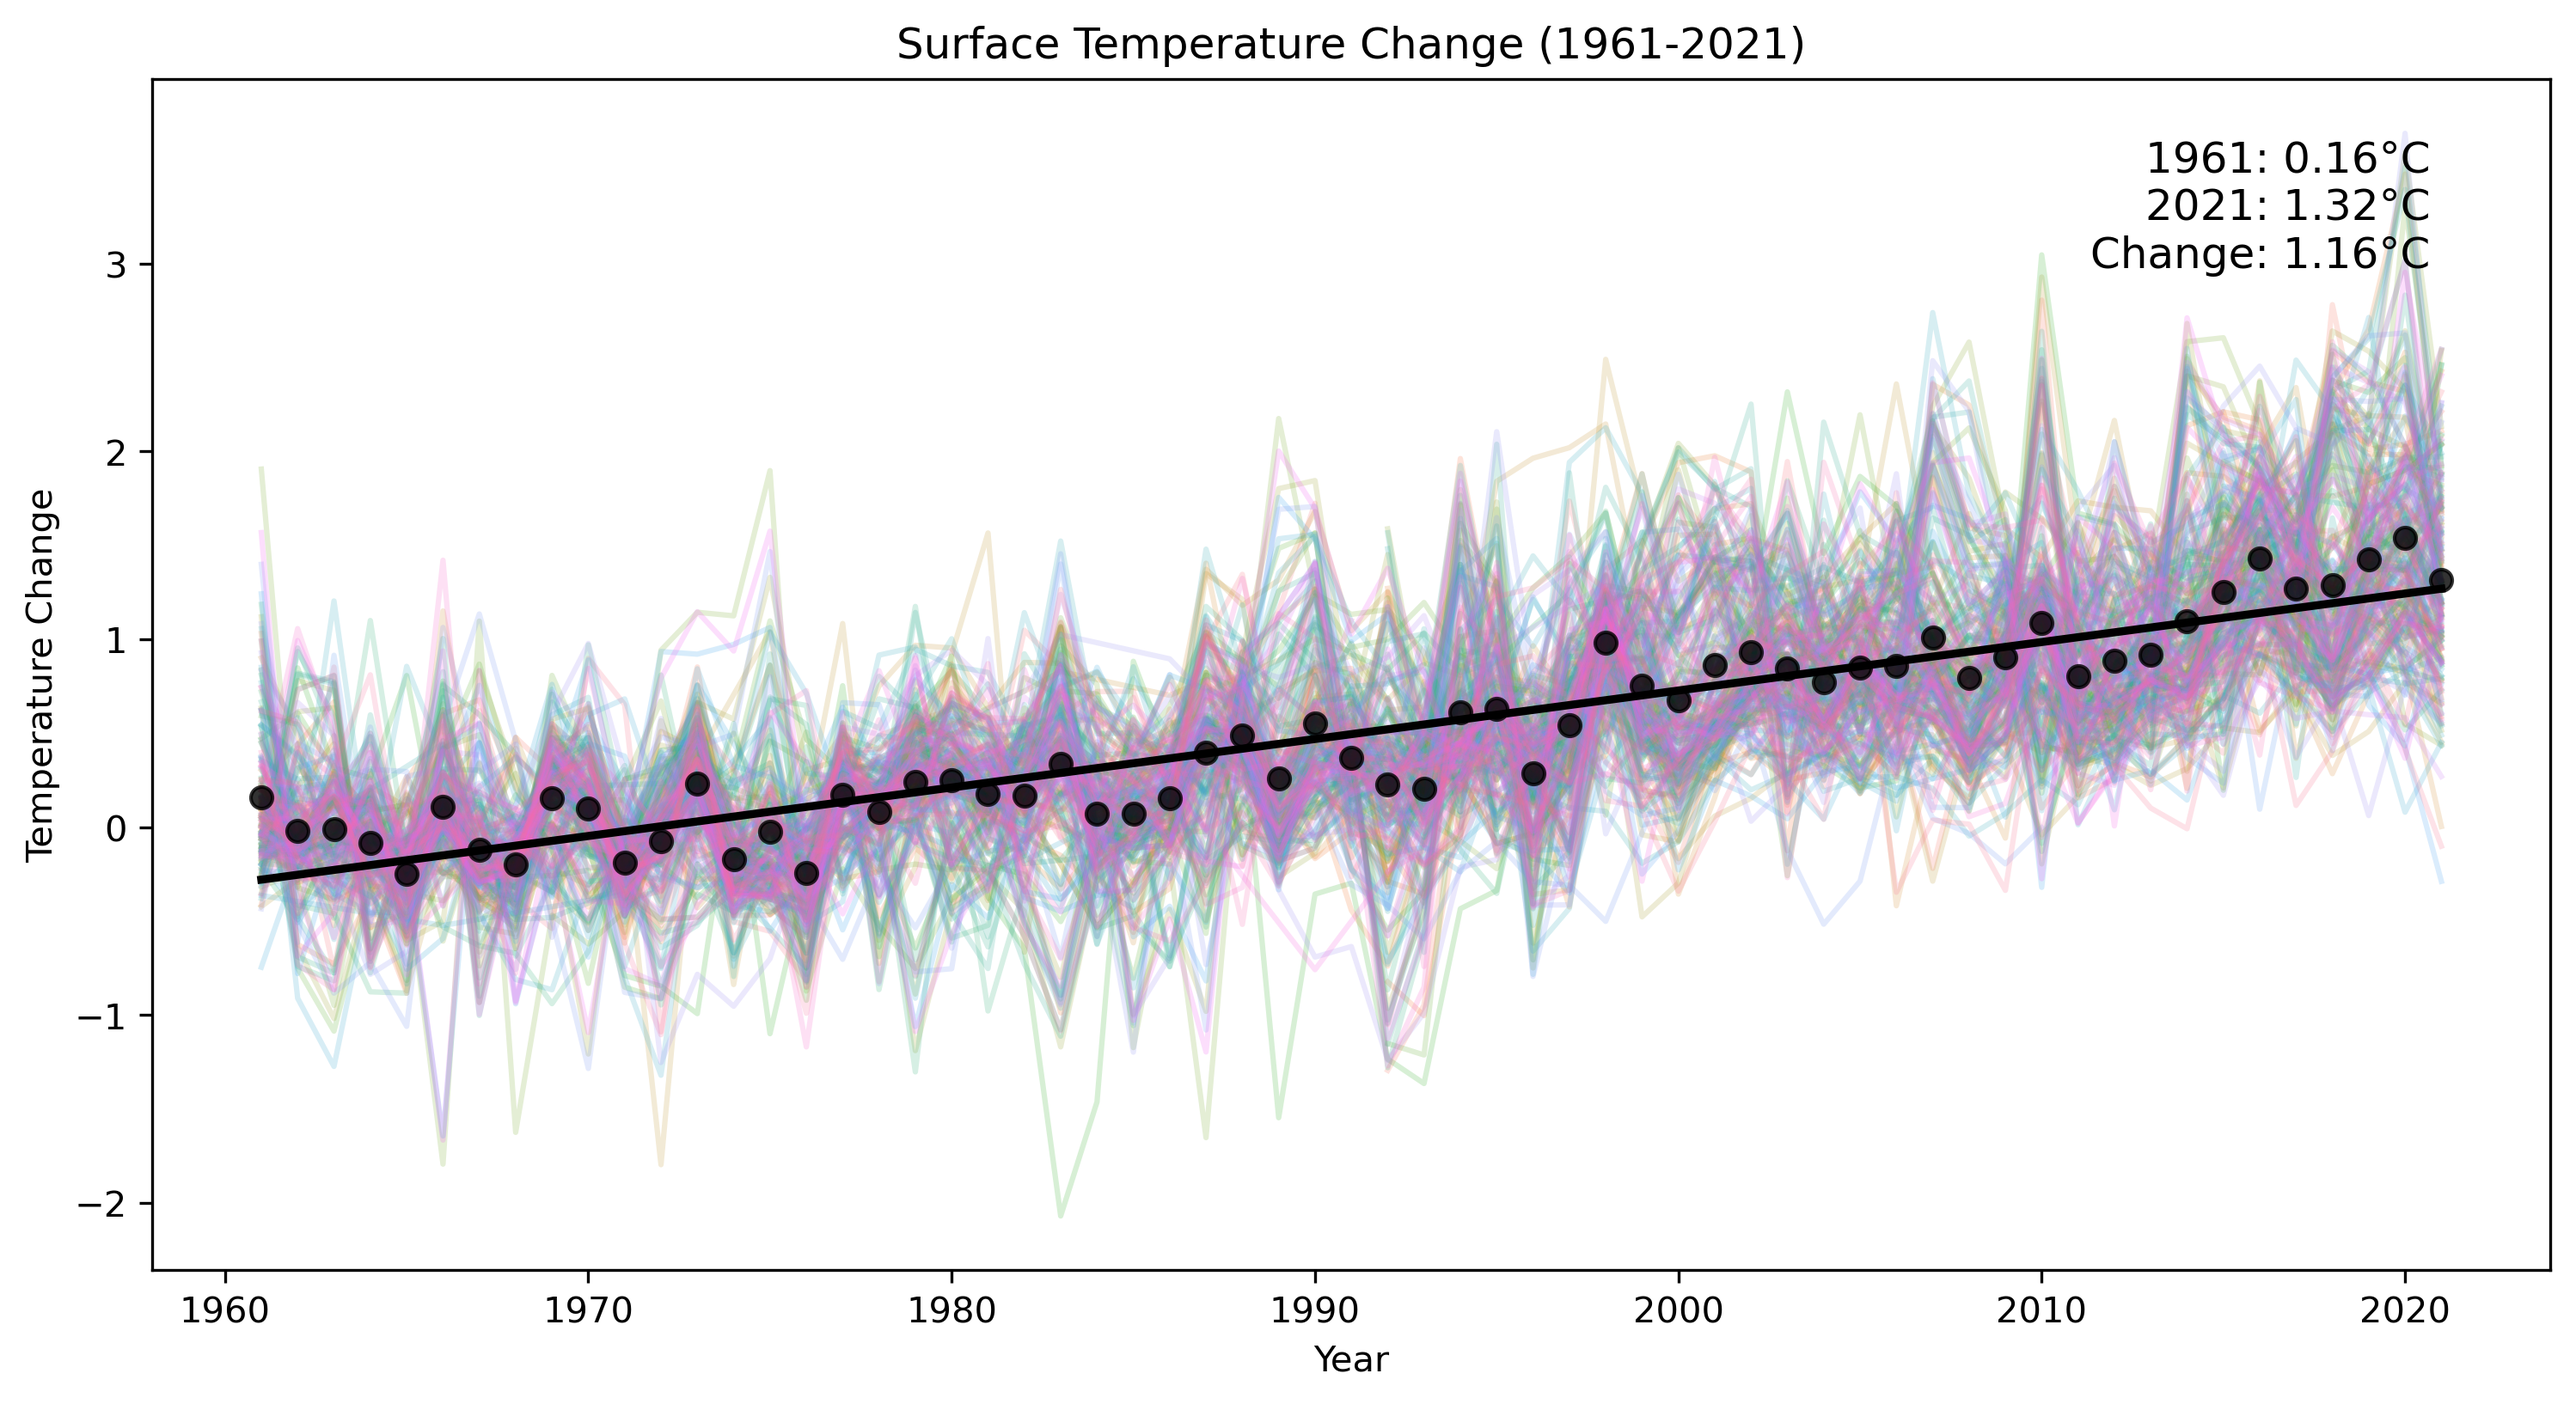
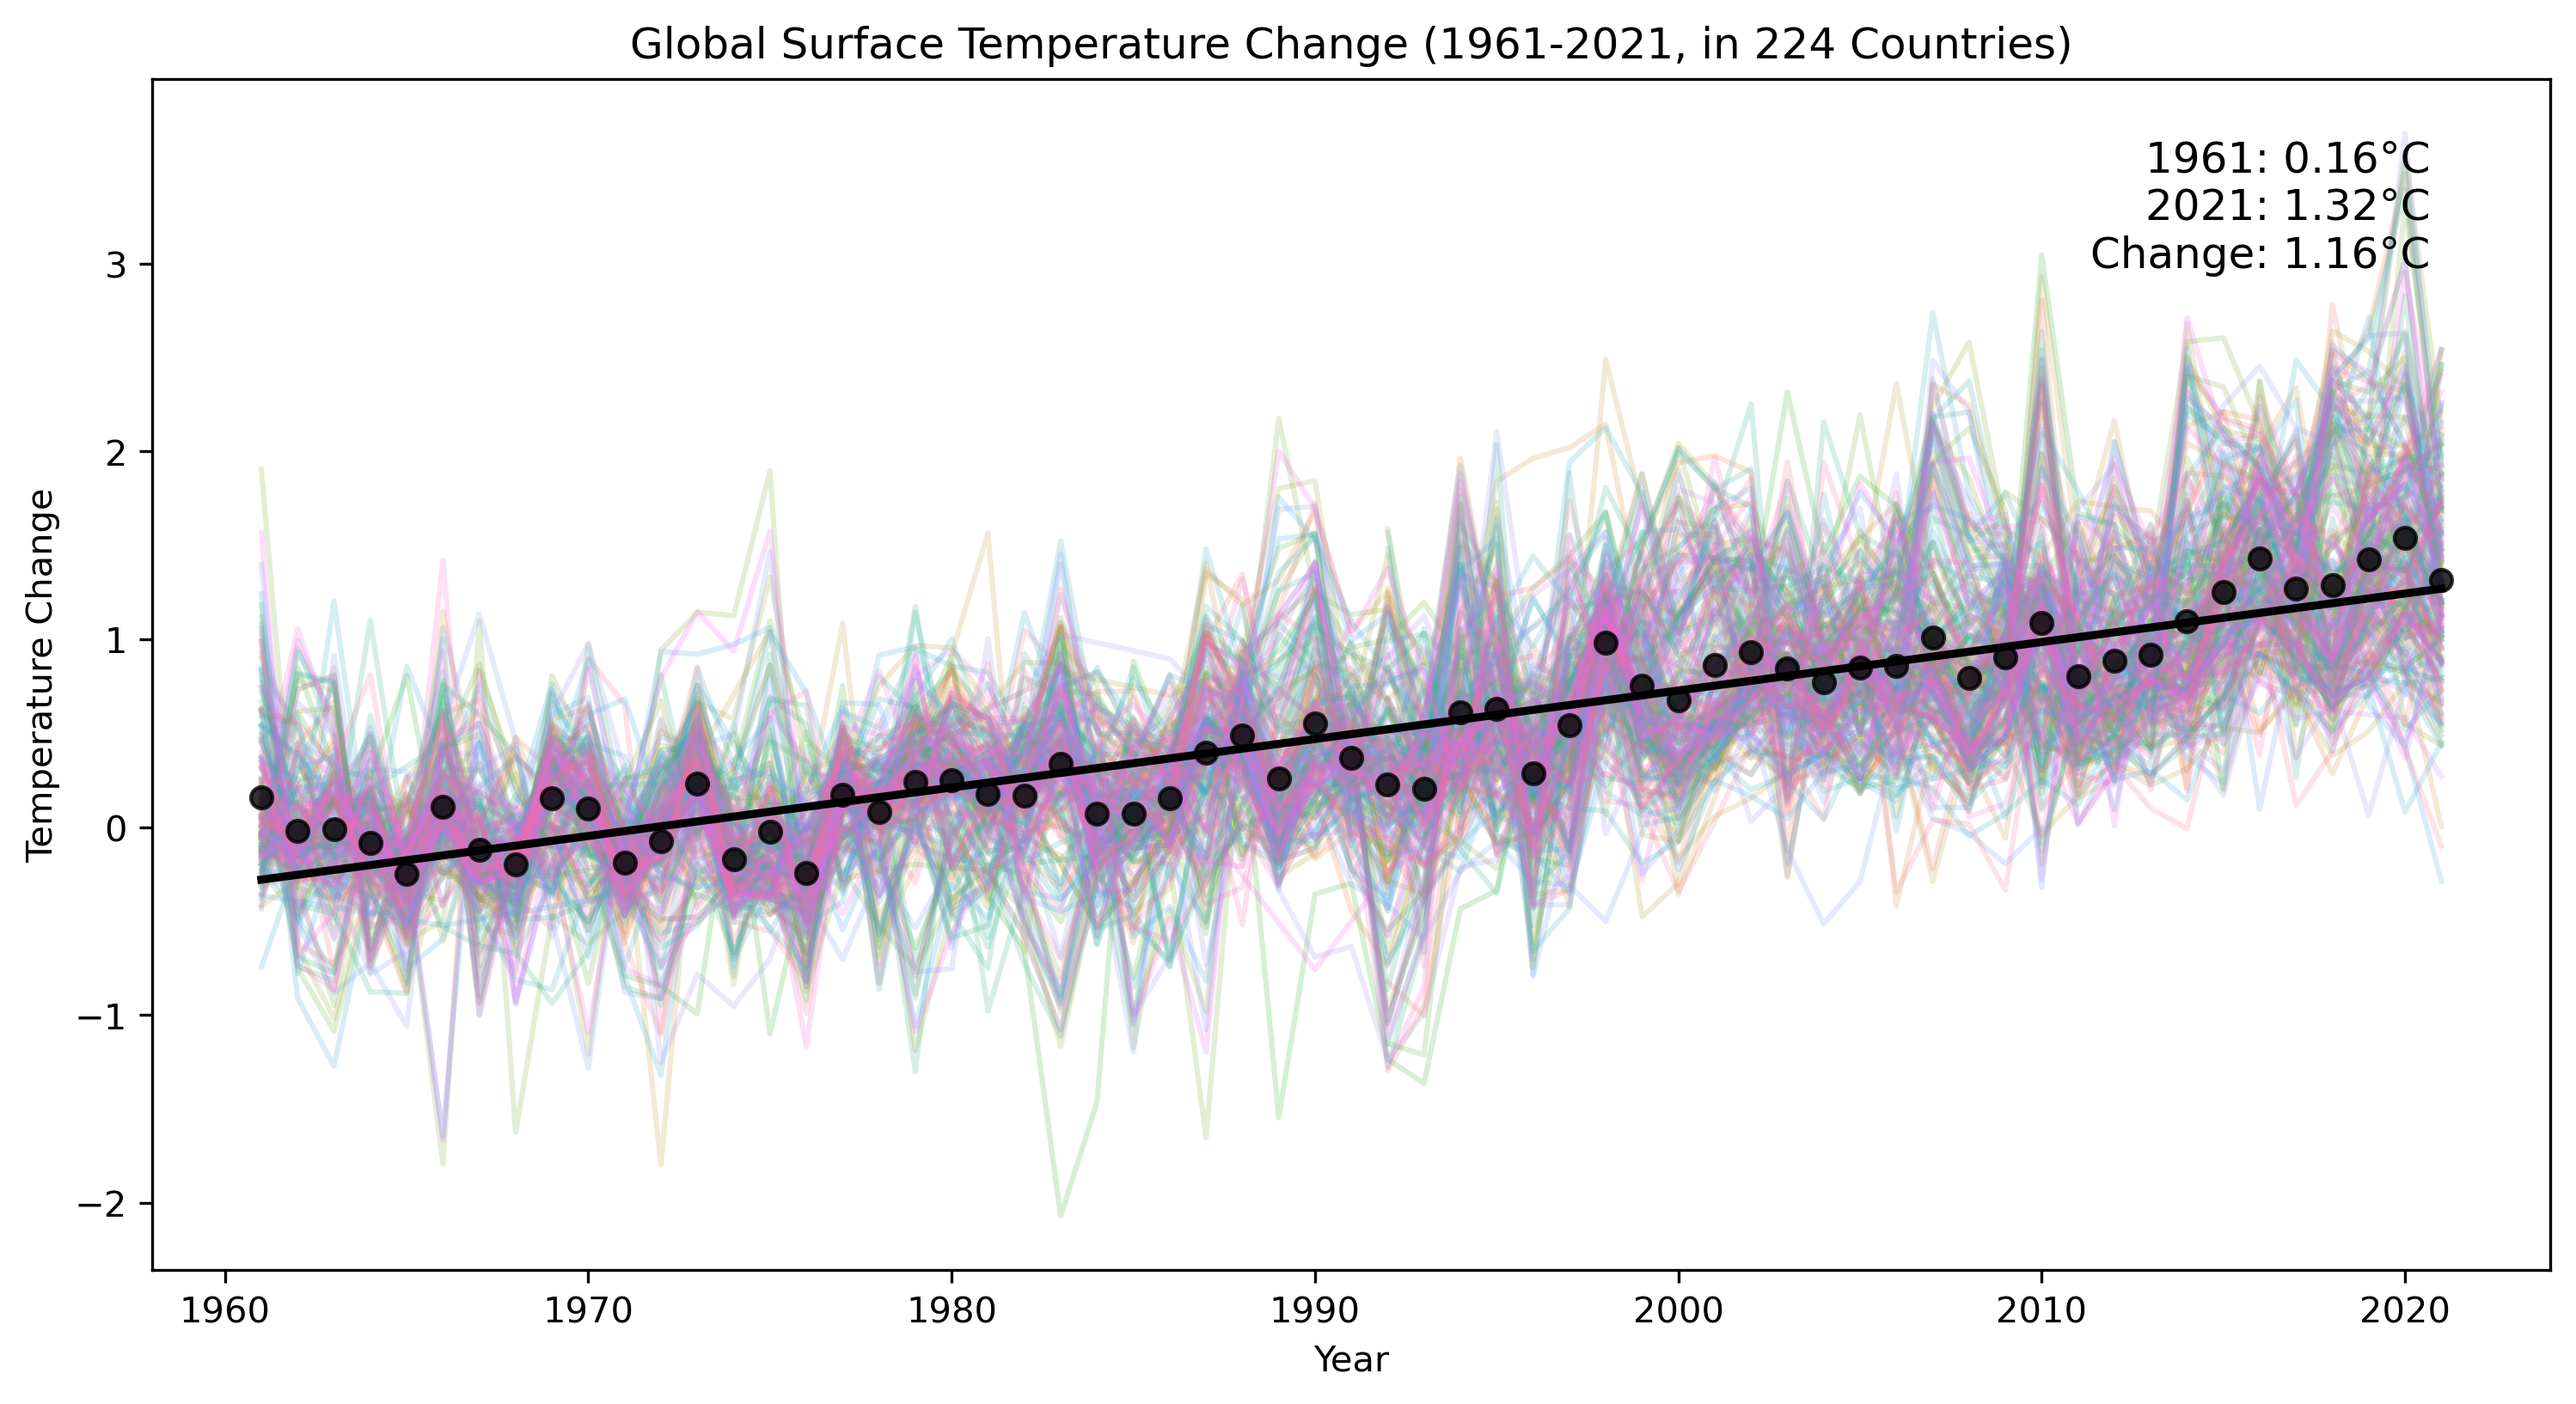
Homepage finished

Changed region(s): [[0.2482, 0.0, 0.8068, 0.0624]]

diff --git a/index.html b/index.html
@@ -36,7 +36,7 @@
 			<div class="section-3-text">
 				<h3 class="section-3-title">Global Surface Temperature Rise Trends (1961-2021)</h3>
 				<p class="section-3-description">This graph demonstrates the rising trend of global surface temperatures between 1961 and 2021, with data obtained from the Food and Agriculture Organization of the United Nations (FAO). Employing a baseline climatology period from 1951 to 1980, yearly temperature variations have been plotted to depict the progression of global warming. Each data point signifies the deviation in surface temperature, measured in degrees Celsius, compared to the average temperature during the baseline period. This visualization not only emphasizes the urgent issue of climate change but also accentuates the necessity for immediate temporary solutions, such as BluePump's deeper water pumping design, to address the declining groundwater levels in Africa, where traditional pumps can no longer effectively access water resources. Simultaneously, it highlights the importance of devising effective policies and actions to mitigate climate change's impacts on our planet and future generations.</p>
-				<button href="#" class="view-more-btn">View more</button>
+				<a href="temp.html" class="view-more-btn">View more</a>
 			</div>
 		</div>
 
@@ -44,12 +44,12 @@
 
 		<div class="section-3">
 			<div class="section-3-text">
-				<h3 class="section-3-title">BluePump's Reliable Deeper Water Pumping: A Temporary Measure for Africa's Declining Groundwater Levels</h3>
-				<p class="section-3-description">BluePump's reliable deeper water pumping technology offers a temporary solution to mitigate the pressing issue of declining groundwater levels in Africa. While not an innovative approach, the dependability of BluePump's system allows for efficient extraction of water from deeper underground sources. This increased capability can help in addressing immediate water scarcity challenges in affected regions. However, it is crucial to develop and implement sustainable water management strategies, invest in long-term infrastructure, and foster collaboration among stakeholders to address the underlying causes of groundwater depletion. BluePump's deeper water pumping serves as an essential short-term measure, assisting communities in coping with diminishing water supplies while working towards comprehensive solutions for the sustainable use and management of water resources.</p>
-				<button href="https://bluepump.com/" class="view-more-btn">View more</button>
+				<h3 class="section-3-title">Climate-Induced Water Scarcity: The Effects of Rising Global Surface Temperatures on Africa's Groundwater</h3>
+				<p class="section-3-description">The persistent increase in global surface temperatures, largely driven by climate change, has far-reaching impacts on our planet. In Africa, this phenomenon has contributed significantly to water scarcity, exacerbating an already challenging situation. Rising temperatures intensify evaporation rates and alter precipitation patterns, which can result in less available water, causing surface water sources to dry up. In turn, this increases reliance on groundwater, leading to depletion of underground water reserves. As such, it is crucial to understand the connection between climate change, water scarcity, and groundwater depletion in Africa, in order to develop sustainable and effective solutions that can address this pressing issue.</p>
+				<a href="water.html" class="view-more-btn">View more</a>
 			</div>
 			<div class="section-3-graph">
-				<img src="images/bluepump.jpg" alt="World Temperature Trend Graph">
+				<img src="images/water.jpg" alt="World Temperature Trend Graph">
 			</div>
 		</div>
 
@@ -62,15 +62,23 @@
 			<div class="section-3-text">
 				<h3 class="section-3-title">BluePump's Reliable Deeper Water Pumping: A Temporary Measure for Africa's Declining Groundwater Levels</h3>
 				<p class="section-3-description">BluePump's reliable deeper water pumping technology offers a temporary solution to mitigate the pressing issue of declining groundwater levels in Africa. While not an innovative approach, the dependability of BluePump's system allows for efficient extraction of water from deeper underground sources. This increased capability can help in addressing immediate water scarcity challenges in affected regions. However, it is crucial to develop and implement sustainable water management strategies, invest in long-term infrastructure, and foster collaboration among stakeholders to address the underlying causes of groundwater depletion. BluePump's deeper water pumping serves as an essential short-term measure, assisting communities in coping with diminishing water supplies while working towards comprehensive solutions for the sustainable use and management of water resources.</p>
-				<button href="https://bluepump.com/" class="view-more-btn">View more</button>
+				<a href="https://bluepump.com/" class="view-more-btn">View more</a>
 			</div>
 		</div>
 
 		<div class="separator-2"></div>
 
-		<div class="section-2">
-			<h2 class="section-2-title">Water scarcity faced by the people across Africa</h2>
-			<p class="section-2-text">Water scarcity, a critical issue exacerbated by increasing global surface temperatures, presents significant challenges for Africa. Data indicates that climate change contributes to decreased precipitation patterns and increased evapotranspiration rates, resulting in dwindling water availability. Declining groundwater levels further compound this crisis. Approximately 300 million people in Africa lack access to clean water, making this resource constraint a pressing concern. The World Health Organization estimates that over 50% of Africans face severe water scarcity, a number projected to rise with the continuation of current climate trends. Addressing this urgent matter necessitates evidence-based strategies and international collaboration to promote sustainable water management and protect vulnerable communities. One such solution is the BluePump, a durable and low-maintenance hand pump that can access deeper groundwater sources. By tapping into these reserves, BluePump offers a reliable, long-term solution to help alleviate water scarcity in affected regions across the African continent.</p>
+		<div class="section-4">
+			<h2 class="section-4-title">Do you know?</h2>
+			<div class="facts-container">
+				<ul class="facts-list">
+				  <li>1. According to the World Bank, global surface temperatures have increased by 1.2°C (2.16°F) since the Industrial Revolution, exacerbating water scarcity across the African continent.</li>
+				  <li>2. The United Nations estimates that by 2025, nearly two-thirds of the world's population could be under water stress, with a significant proportion residing in Africa.</li>
+				  <li>3. A study by the British Geological Survey found that the rate of groundwater depletion in Africa has doubled in the past 50 years, directly impacting the availability of fresh water resources for millions of people.</li>
+				  <li>4. The African Ministerial Conference on Water (AMCOW) reports that, due to decreasing groundwater levels, 40% of Africa's population is now dependent on water sources located more than 30 minutes away from their homes.</li>
+				  <li>5. Research by the Intergovernmental Panel on Climate Change (IPCC) indicates that the ongoing rise in global surface temperatures is causing severe droughts, further straining Africa's groundwater resources and limiting access to clean water.</li>
+				</ul>
+			  </div>
 		</div>
 
 		<div class="separator-1"></div>

diff --git a/style.css b/style.css
@@ -10,6 +10,7 @@
 
 .separator-2 {
 	border-top: 1px solid gray;
+	margin-top: 50px;
 }
 
 /* header */
@@ -464,18 +465,107 @@ a.footer-logo {
 }
 
 .view-more-btn {
+    display: inline-block;
     background-color: #007bff;
     color: white;
+    text-decoration: none;
     border: none;
     border-radius: 25px;
     padding: 8px 16px;
     font-size: 1.1rem;
     cursor: pointer;
-    transition: 0.3s;
     margin-top: 1rem;
 }
 
 .view-more-btn:hover {
-    background-color: #0056b3;
+    background-color: #12d4e296;
     text-decoration: none;
+	transition: 0.3s;
 }
+
+.section-2 {
+    display: flex;
+    flex-direction: column;
+    justify-content: center;
+    align-items: center;
+    min-height: 32vh;
+    text-align: center;
+    padding: 0 2rem;
+	background-color: #e4f6fb;
+	padding-top: 3vh;
+}
+
+.section-2-title {
+	padding-top: 1rem;
+    margin-bottom: 2rem;
+	font-weight: bolder;
+}
+
+.section-2-text {
+	font-size: 1.2rem;
+    max-width: 80%;
+	margin-bottom: 6rem;
+	line-height: 1.6;
+	text-align: left;
+}.section-2 {
+    display: flex;
+    flex-direction: column;
+    justify-content: center;
+    align-items: center;
+    min-height: 32vh;
+    text-align: center;
+    padding: 0 2rem;
+	background-color: #e4f6fb;
+	padding-top: 3vh;
+}
+
+.section-2-title {
+	padding-top: 1rem;
+    margin-bottom: 2rem;
+	font-weight: bolder;
+}
+
+.section-2-text {
+	font-size: 1.2rem;
+    max-width: 80%;
+	margin-bottom: 6rem;
+	line-height: 1.6;
+	text-align: left;
+}
+
+/* Landing page 4 section*/
+
+.section-4 {
+    display: flex;
+    flex-direction: column;
+    justify-content: center;
+    align-items: center;
+    min-height: 32vh;
+    text-align: center;
+    padding: 0 2rem;
+	background-color: #e4f6fb;
+	padding-top: 1vh;
+	padding-bottom: 2vh;
+}
+
+.section-4-title {
+	padding-top: 1rem;
+    margin-bottom: 2rem;
+	font-weight: bolder;
+}
+
+.facts-container {
+	text-align: left;
+  }
+  
+  .facts-list {
+	list-style-type: none;
+	padding: 0;
+	margin: 0;
+  }
+  
+  .facts-list li {
+	margin-bottom: 1rem;
+  }
+
+  /* Global temperature */

diff --git a/footer.html b/footer.html
@@ -2,9 +2,9 @@
     <div class="footer-top">
         <div class="footer-section-a">
             <h3 class="footer-menu-title">Home</h3>
-            <p><a href="map.html" class="footer-item">Landing page</a></p>
-            <p><a href="map.html" class="footer-item">Global warming</a></p>
-            <p><a href="map.html" class="footer-item">Water scaricity</a></p>
+            <p><a href="index.html" class="footer-item">Landing page</a></p>
+            <p><a href="temp.html" class="footer-item">Global Temperatures</a></p>
+            <p><a href="water.html" class="footer-item">Water scaricity</a></p>
         </div>
         <div class="footer-section-b">
             <h3 class="footer-menu-title">References</h3>

diff --git a/header.html b/header.html
@@ -14,8 +14,8 @@
           <div class="menu-items navbar-nav">
             <div class="menu-items navbar-nav">
               <a href="index.html" class="menu-item nav-link">Home</a>
-              <a href="index.html" class="menu-item nav-link">Global Warming</a>
-              <a href="index.html" class="menu-item nav-link">Water Scarcity</a>
+              <a href="temp.html" class="menu-item nav-link">Global Temperatures</a>
+              <a href="water.html" class="menu-item nav-link">Water Scarcity</a>
               <a href="https://bluepump.com/" class="menu-item nav-link">BluePump</a>
           </div>
         </div>

diff --git a/data_analysis.py b/data_analysis.py
@@ -49,7 +49,7 @@ plt.annotate(f"1961: {average_temperature_change.loc[average_temperature_change[
              f"Change: {temp_change:.2f}°C",
              xy=(0.95, 0.95), xycoords='axes fraction', fontsize=12, ha='right', va='top')
 
-plt.title('Surface Temperature Change (1961-2021)')
+plt.title('Global Surface Temperature Change (1961-2021, in 224 Countries)')
 plt.xlabel('Year')
 plt.ylabel('Temperature Change')
 
